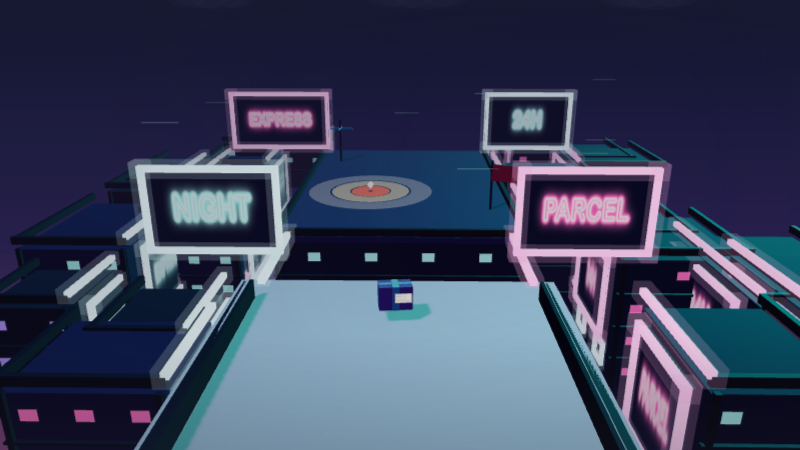
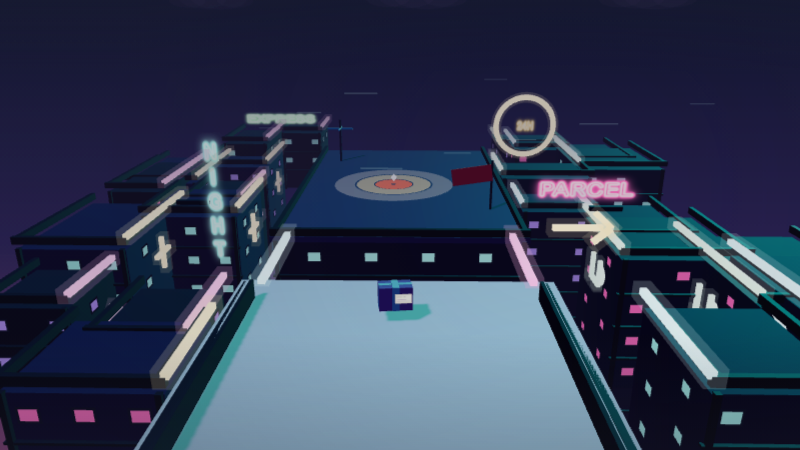
Replace neon billboards with tube signs

Changed region(s): [[0.0625, 0.1867, 1.0, 1.0], [0.4688, 0.6222, 0.5, 0.6533]]

diff --git a/crazygames/world.js b/crazygames/world.js
@@ -409,11 +409,11 @@ export function createWorld(container) {
     get sceneName() { return sceneName },
     get districtMetrics() {
       const spec = DISTRICTS[sceneName]
-      const neonCounts = { signs: 0, streetSigns: 0, heroSigns: 0, eaves: 0, streetTubes: 0 }
+      const neonCounts = { textSigns: 0, symbols: 0, boards: 0, eaves: 0, streetTubes: 0 }
       if (sceneName === 'neon') scenes.neon.traverse((child) => {
-        if (child.userData.neonBillboard) neonCounts.signs += 1
-        if (child.userData.neonBillboard === 'street-wall') neonCounts.streetSigns += 1
-        if (child.userData.neonBillboard === 'hero') neonCounts.heroSigns += 1
+        if (child.userData.neonText) neonCounts.textSigns += 1
+        if (child.userData.neonSymbol) neonCounts.symbols += 1
+        if (child.userData.neonBillboard) neonCounts.boards += 1
         if (child.userData.neonTubeRole === 'eave') neonCounts.eaves += 1
         if (child.userData.neonTubeRole === 'street') neonCounts.streetTubes += 1
       })
@@ -625,38 +625,15 @@ function addArchitectureDetails(group, kind, width, height, depth, options) {
       }
     }
   } else if (kind === 'neon') {
-    const neonColor = index % 2 ? 0xff4fa3 : 0x35f5e4
-    if (streetFace) {
-      const labels = ['NIGHT', 'PARCEL', 'EXPRESS', '24H']
-      const floorHeight = height / Math.max(2, Math.floor(height / 1.25))
-      const signHeight = Math.min(height * 0.66, floorHeight * 2.18)
-      const signWidth = depth * 0.68
-      addNeonBillboard(group, {
-        text: labels[index % labels.length],
-        width: signWidth,
-        height: signHeight,
-        color: neonColor,
-        position: [streetFace * (width / 2 + 0.17), top - signHeight / 2 - 0.38, 0],
-        axis: streetFace > 0 ? 'right' : 'left',
-        role: 'street-wall',
-      })
-    }
+    const neonColors = [0xff4fa3, 0x35f5e4, 0xffb84d, 0x5cff8d]
+    const neonColor = neonColors[index % neonColors.length]
     if (roofDecor) {
       if (streetFace) {
         const eave = addGlowTube(group, [0.2, 0.2, depth + 0.12], neonColor, [streetFace * (width / 2 + 0.08), top + 0.52, 0])
         eave.userData.neonTubeRole = 'eave'
       }
     }
-    if (streetFace) {
-      const opposite = index % 2 ? 0x35f5e4 : 0xff4fa3
-      const windowY = -top + Math.min(1.15, height * 0.2)
-      for (const z of [-depth * 0.26, depth * 0.26]) {
-        addGlowTube(group, [0.18, 0.82, 0.18], opposite, [streetFace * (width / 2 + 0.075), windowY, z - 0.48], 0.16)
-        addGlowTube(group, [0.18, 0.82, 0.18], opposite, [streetFace * (width / 2 + 0.075), windowY, z + 0.48], 0.16)
-        addGlowTube(group, [0.18, 0.18, 1.14], opposite, [streetFace * (width / 2 + 0.075), windowY + 0.41, z], 0.16)
-        addGlowTube(group, [0.18, 0.18, 1.14], opposite, [streetFace * (width / 2 + 0.075), windowY - 0.41, z], 0.16)
-      }
-    }
+    if (streetFace && ![0, 1, 20, 21].includes(index)) addNeonSymbol(group, ['arrow', 'circle', 'cross', 'cup'][index % 4], neonColor, streetFace, width, height, index)
   } else if (kind === 'glasshouse') {
     if (roofDecor) {
       const glass = sceneBox(group, [width * 0.64, 0.78, depth * 0.42], 0x9adcec, [0, top + 0.52, 0], { opacity: 0.38, castShadow: false })
@@ -684,34 +661,85 @@ function addArchitectureDetails(group, kind, width, height, depth, options) {
   }
 }
 
-function addNeonBillboard(group, { text, width, height, color, position, axis, role = 'hero' }) {
+function addNeonText(group, { text, width, height, color, position, axis = 'front', vertical = false }) {
   const isFront = axis === 'front'
-  const panelSize = isFront ? [width + 0.36, height + 0.36, 0.16] : [0.16, height + 0.36, width + 0.36]
-  const panel = sceneBox(group, panelSize, 0x080a1c, position, { emissive: 0x12152c, emissiveIntensity: 0.8, castShadow: false })
-  panel.userData.neonBillboard = role
-  panel.userData.neonBillboardSize = { width, height }
   const plane = new THREE.Mesh(
     new THREE.PlaneGeometry(width, height),
-    new THREE.MeshBasicMaterial({ map: makeNeonSignTexture(text, color), transparent: true, depthWrite: false }),
+    new THREE.MeshBasicMaterial({ map: makeNeonSignTexture(text, color, vertical), transparent: true, depthWrite: false, side: THREE.DoubleSide }),
   )
   plane.position.set(...position)
-  if (isFront) {
-    plane.position.z += 0.101
-  } else {
-    plane.position.x += axis === 'right' ? 0.101 : -0.101
-    plane.rotation.y = axis === 'right' ? Math.PI / 2 : -Math.PI / 2
-  }
+  if (!isFront) plane.rotation.y = axis === 'right' ? Math.PI / 2 : -Math.PI / 2
+  plane.userData.neonText = text
   group.add(plane)
+  return plane
+}
 
-  if (isFront) {
-    for (const y of [-height / 2 - 0.14, height / 2 + 0.14]) addGlowTube(group, [width + 0.46, 0.2, 0.2], color, [position[0], position[1] + y, position[2] + 0.13])
-    for (const x of [-width / 2 - 0.14, width / 2 + 0.14]) addGlowTube(group, [0.2, height + 0.46, 0.2], color, [position[0] + x, position[1], position[2] + 0.13])
-  } else {
-    const faceX = position[0] + (axis === 'right' ? 0.13 : -0.13)
-    for (const y of [-height / 2 - 0.14, height / 2 + 0.14]) addGlowTube(group, [0.2, 0.2, width + 0.46], color, [faceX, position[1] + y, position[2]])
-    for (const z of [-width / 2 - 0.14, width / 2 + 0.14]) addGlowTube(group, [0.2, height + 0.46, 0.2], color, [faceX, position[1], position[2] + z])
+function rotateGlowPair(group, rotationZ) {
+  const tube = group.children[group.children.length - 1]
+  const glow = group.children[group.children.length - 2]
+  tube.rotation.z = rotationZ
+  glow.rotation.z = rotationZ
+}
+
+function addNeonArrow(group, color, position, scale = 1) {
+  const arrow = new THREE.Group()
+  addGlowTube(arrow, [1.55 * scale, 0.18, 0.18], color, [-0.15 * scale, 0, 0], 0.18)
+  addGlowTube(arrow, [0.72 * scale, 0.18, 0.18], color, [0.62 * scale, 0.25 * scale, 0], 0.18)
+  rotateGlowPair(arrow, -0.72)
+  addGlowTube(arrow, [0.72 * scale, 0.18, 0.18], color, [0.62 * scale, -0.25 * scale, 0], 0.18)
+  rotateGlowPair(arrow, 0.72)
+  arrow.position.set(...position)
+  arrow.userData.neonSymbol = 'parcel-arrow'
+  group.add(arrow)
+}
+
+function addNeonRing(group, color, position, radius) {
+  const glow = new THREE.Mesh(
+    new THREE.TorusGeometry(radius, 0.26, 10, 40),
+    sceneMaterial(color, { emissive: color, emissiveIntensity: 2.2, opacity: 0.2 }),
+  )
+  glow.material.depthWrite = false
+  glow.position.set(...position)
+  group.add(glow)
+  const tube = new THREE.Mesh(new THREE.TorusGeometry(radius, 0.14, 10, 40), sceneMaterial(color, { emissive: color, emissiveIntensity: 5.2 }))
+  tube.position.set(...position)
+  tube.userData.neonSymbol = '24h-circle'
+  group.add(tube)
+}
+
+function addNeonSymbol(group, symbol, color, streetFace, width, height, index) {
+  const symbolGroup = new THREE.Group()
+  const faceX = streetFace * (width / 2 + 0.11)
+  const y = height / 2 - 1.2
+  const addPart = (size, offset, rotationX = 0) => {
+    const tube = addGlowTube(symbolGroup, size, color, offset, 0.17)
+    tube.rotation.x = rotationX
+    const glow = symbolGroup.children[symbolGroup.children.length - 2]
+    glow.rotation.x = rotationX
   }
-  panel.renderOrder = 1
+  if (symbol === 'arrow') {
+    addPart([0.18, 0.18, 1.5], [0, 0, 0])
+    addPart([0.18, 0.18, 0.72], [0, 0.25, 0.62], 0.72)
+    addPart([0.18, 0.18, 0.72], [0, -0.25, 0.62], -0.72)
+  } else if (symbol === 'circle') {
+    const torus = new THREE.Mesh(new THREE.TorusGeometry(0.62, 0.12, 8, 24), sceneMaterial(color, { emissive: color, emissiveIntensity: 4.8 }))
+    torus.rotation.y = Math.PI / 2
+    symbolGroup.add(torus)
+  } else if (symbol === 'cross') {
+    addPart([0.18, 1.35, 0.18], [0, 0, 0])
+    addPart([0.18, 0.18, 1.35], [0, 0, 0])
+  } else {
+    addPart([0.18, 1.05, 0.18], [0, 0, -0.48])
+    addPart([0.18, 1.05, 0.18], [0, 0, 0.48])
+    addPart([0.18, 0.18, 1.12], [0, -0.52, 0])
+    const handle = new THREE.Mesh(new THREE.TorusGeometry(0.32, 0.1, 8, 18, Math.PI), sceneMaterial(color, { emissive: color, emissiveIntensity: 4.8 }))
+    handle.rotation.set(0, Math.PI / 2, Math.PI / 2)
+    handle.position.set(0, -0.05, 0.62)
+    symbolGroup.add(handle)
+  }
+  symbolGroup.position.set(faceX, y - (index % 3) * 0.18, 0)
+  symbolGroup.userData.neonSymbol = symbol
+  group.add(symbolGroup)
 }
 
 function addGlowTube(group, size, color, position, glowOpacity = 0.22) {
@@ -749,16 +777,18 @@ function addDistrictEnvironment(group, kind) {
   }
 
   if (kind === 'neon') {
-    const heroSigns = [
-      { text: 'NIGHT', color: 0x35f5e4, position: [-5.75, 2.35, -1.0], bracketX: -6.55 },
-      { text: 'PARCEL', color: 0xff4fa3, position: [5.75, 2.35, -1.0], bracketX: 6.55 },
-      { text: 'EXPRESS', color: 0xff4fa3, position: [-6.15, 3.0, -13.7], bracketX: -7.15 },
-      { text: '24H', color: 0x35f5e4, position: [6.15, 3.0, -13.7], bracketX: 7.15 },
-    ]
-    heroSigns.forEach(({ text, color, position, bracketX }) => {
-      addNeonBillboard(group, { text, width: text === 'EXPRESS' ? 4.45 : 3.8, height: 2.35, color, position, axis: 'front', role: 'hero' })
-      sceneBox(group, [Math.abs(bracketX - position[0]) + 0.18, 0.18, 0.18], 0x232942, [(bracketX + position[0]) / 2, position[1], position[2] - 0.04], { metalness: 0.26, castShadow: false })
-    })
+    addNeonText(group, { text: 'NIGHT', width: 1.45, height: 4.4, color: 0x35f5e4, position: [-5.65, 2.55, -1.0], vertical: true })
+    sceneBox(group, [1.05, 0.14, 0.14], 0x232942, [-6.35, 2.55, -1.08], { metalness: 0.26, castShadow: false })
+
+    addNeonText(group, { text: 'PARCEL', width: 4.15, height: 1.42, color: 0xff4fa3, position: [5.72, 3.0, -1.0] })
+    addNeonArrow(group, 0xffb84d, [5.72, 1.82, -0.98], 1.0)
+    sceneBox(group, [1.0, 0.14, 0.14], 0x232942, [6.4, 2.42, -1.08], { metalness: 0.26, castShadow: false })
+
+    addNeonRing(group, 0xffb84d, [6.05, 2.75, -13.7], 1.42)
+    addNeonText(group, { text: '24H', width: 2.15, height: 1.18, color: 0xffb84d, position: [6.05, 2.75, -13.55] })
+
+    addNeonText(group, { text: 'EXPRESS', width: 4.6, height: 1.35, color: 0x5cff8d, position: [-5.8, 3.3, -12.1] })
+    sceneBox(group, [1.1, 0.12, 0.12], 0x232942, [-6.58, 3.3, -12.18], { metalness: 0.26, castShadow: false })
   }
 
   const street = new THREE.Mesh(
@@ -926,35 +956,44 @@ function makeLabelTexture(text = 'RD / 01', accent = '#f05d4e') {
   return texture
 }
 
-function makeNeonSignTexture(text = 'NIGHT', color = 0x35f5e4) {
+function makeNeonSignTexture(text = 'NIGHT', color = 0x35f5e4, vertical = false) {
   makeNeonSignTexture.cache ||= new Map()
-  const cacheKey = `${text}-${color}`
+  const cacheKey = `${text}-${color}-${vertical}`
   if (makeNeonSignTexture.cache.has(cacheKey)) return makeNeonSignTexture.cache.get(cacheKey)
   const canvas = document.createElement('canvas')
-  canvas.width = 768
-  canvas.height = 320
+  canvas.width = vertical ? 320 : 768
+  canvas.height = vertical ? 768 : 320
   const ctx = canvas.getContext('2d')
   ctx.clearRect(0, 0, canvas.width, canvas.height)
   ctx.textAlign = 'center'
   ctx.textBaseline = 'middle'
   ctx.lineCap = 'round'
   ctx.lineJoin = 'round'
-  const fontSize = text.length >= 7 ? 116 : text.length >= 6 ? 132 : 150
+  const fontSize = vertical ? 112 : text.length >= 7 ? 116 : text.length >= 6 ? 132 : 150
   ctx.font = `900 ${fontSize}px Arial Rounded MT Bold, Arial Black, Arial, sans-serif`
   const tubeColor = `#${color.toString(16).padStart(6, '0')}`
-  const coreColor = color === 0xff4fa3 ? '#ffd0e8' : '#c5fff9'
-  ctx.shadowColor = tubeColor
-  ctx.shadowBlur = 54
-  ctx.strokeStyle = tubeColor
-  ctx.lineWidth = 28
-  ctx.strokeText(text, 384, 160)
-  ctx.shadowBlur = 22
-  ctx.lineWidth = 18
-  ctx.strokeText(text, 384, 160)
-  ctx.shadowBlur = 0
-  ctx.strokeStyle = coreColor
-  ctx.lineWidth = 7
-  ctx.strokeText(text, 384, 160)
+  const coreColor = color === 0xff4fa3 ? '#ffd0e8' : color === 0xffb84d ? '#fff0b8' : color === 0x5cff8d ? '#d0ffdc' : '#c5fff9'
+  const drawTubeText = (value, x, y) => {
+    const compactGlow = text === 'EXPRESS'
+    ctx.shadowColor = tubeColor
+    ctx.shadowBlur = compactGlow ? 26 : 54
+    ctx.strokeStyle = tubeColor
+    ctx.lineWidth = compactGlow ? 22 : 28
+    ctx.strokeText(value, x, y)
+    ctx.shadowBlur = compactGlow ? 10 : 22
+    ctx.lineWidth = compactGlow ? 13 : 18
+    ctx.strokeText(value, x, y)
+    ctx.shadowBlur = 0
+    ctx.strokeStyle = coreColor
+    ctx.lineWidth = compactGlow ? 6 : 7
+    ctx.strokeText(value, x, y)
+  }
+  if (vertical) {
+    const step = canvas.height / (text.length + 0.6)
+    ;[...text].forEach((letter, index) => drawTubeText(letter, canvas.width / 2, step * (index + 0.8)))
+  } else {
+    drawTubeText(text, canvas.width / 2, canvas.height / 2)
+  }
   const texture = new THREE.CanvasTexture(canvas)
   texture.colorSpace = THREE.SRGBColorSpace
   makeNeonSignTexture.cache.set(cacheKey, texture)

diff --git a/doc/crazygames-review.md b/doc/crazygames-review.md
@@ -1,9 +1,9 @@
-# Rooftop Delivery — Crazy Games 第六轮 Neon 审图修正
+# Rooftop Delivery — Crazy Games 第七轮 Neon 审图修正
 
 ## 本轮范围
 
 - 分支：`cursor/crazygames-guest-7e22`
-- 起点：`3890998`
+- 起点：`eba8caf`
 - 只修改 Crazy Games 隔离代码、QA 与文档；没有修改宿主运行代码，没有重写抛掷结算。
 - 10 条固定路线、七步教学、八项升级与夜间合约全部保留；没有新增路线、广告、内购或账号。
 
@@ -20,7 +20,7 @@
 | depot | warehouse | 两侧临街装卸门/雨棚与屋顶货箱 |
 | laundry | residential | 两侧住宅顶层窗与屋沿之间的彩色晾衣 |
 | garden | courtyard | 两侧楼顶花箱、矮树与临街窗台绿植 |
-| neon | sign-tower | 22 块朝街墙牌、同帧完整可读的 `NIGHT / PARCEL / EXPRESS / 24H` 四块悬挑主牌、厚灯管边框与通长檐口/跨街灯管 |
+| neon | sign-tower | 四组无底板灯管字、四类彩色符号灯、通长檐口与跨街灯管 |
 | glasshouse | glassworks | 两侧屋顶成排透明玻璃棚和框架 |
 | beacon | harbor | 侧后方楼顶灯塔、扫光与沿街暖灯 |
 
@@ -30,12 +30,12 @@
 
 上一轮集中在收件屋顶的箱堆/装卸牌、整排晾衣、四组花箱、`NIGHT POST` 主牌、整座玻璃棚和灯塔已全部移除。收件屋顶现在只保留落点圈、玩法动物、风旗，以及一个水箱或天线；Route 8/10 的两个落点均无遮挡。主题氛围由左右 22 栋街楼与后方楼群承担。
 
-## Neon 灯牌与灯管
+## Neon 灯管字与符号
 
-- 22 栋侧街楼逐栋生成朝街墙牌，宽度为墙宽 68%，高度为 2.18 层；另有四块由支架连到侧楼的悬挑主牌，确保 `NIGHT / PARCEL / EXPRESS / 24H` 在 800×450 同帧完整可读。
-- 文字纹理改为彩色圆角三层 `strokeText`，只有灯管轮廓和亮芯，没有白色填字。
-- 每块牌由暗色实体底板、0.20 厚的四边 emissive 内管，以及外扩 0.30 的半透明亮边组成。
-- 22 栋朝街檐口各使用一根覆盖完整墙宽的通长灯管；街谷左右各一根 4.45 长的灯管直接连接玩家屋顶与落点屋顶，窗框灯管同样不再使用 0.075 细条。
+- 所有暗色底板、方牌、矩形亮框和逐楼复制的文字广告牌已删除；文字纹理使用透明底与三层彩色 `strokeText`，字母本身就是灯管。
+- 文字只保留四组不同形状：左楼竖排青色 `NIGHT`，右楼粉色 `PARCEL` 并接琥珀色朝街箭头，后方楼为琥珀色圆环中的 `24H`，另一后方楼为挂在立面的较小绿色 `EXPRESS`。四组在 800×450 同帧完整可读。
+- 其余 18 栋楼不再放字，改用箭头、圆圈、十字和杯子轮廓，混合粉、青、琥珀、绿四种灯色；连同 `PARCEL` 箭头和 `24H` 圆环共 20 组符号灯。
+- 22 栋朝街檐口各保留一根覆盖完整墙宽的通长灯管；街谷左右各一根 4.45 长的灯管直接连接玩家屋顶与落点屋顶。
 - 收件屋顶未增加招牌或灯管，仍只保留垫圈、旗子和一件小型天线。
 
 ## 既有特殊规则保持
@@ -58,7 +58,7 @@
 - 六景共享已恢复的连续街道骨架；六个建筑族与建筑主色均唯一，差异来自可见结构而非移动楼距或只换色。
 - 六张无 HUD 截图中，主题物件分布在左右/后方楼体，收件屋顶没有大型主题陈列；垫圈与旗帜保持清楚。
 - neon 专项 Chromium 截图为 800×450，无溢出、裁切、页面异常或控制台错误；固定 `gap=4 / streetWidth=8 / skylineCount=22` 未变。
-- 真实场景树计数：`streetSigns=22`、`heroSigns=4`、`eaves=22`、`streetTubes=2`；四块主牌文字在最终静帧中均完整。
+- 真实场景树计数：`textSigns=4`、`symbols=20`、`boards=0`、`eaves=22`、`streetTubes=2`；四组文字在最终静帧中均完整。
 - Route 6 / 9 / 10：翻转完成后权威风、HUD 箭头和旗帜方向逐关一致。
 - Route 7 普通垫圈：`misses=1`、`delivered=0`；结果浮字与箱体不重叠，顶面裂纹可见。
 
@@ -80,6 +80,6 @@
 - P1 “31e9daf 把街道拆成空地上的孤立方块”已通过恢复 `fa376ab` 固定空间与隐藏 HUD 的六张复拍关闭。
 - P1 “楼体只是白点方块/同模型换色”已通过楼层、窗框、女儿墙和六类专属建筑结构关闭。
 - P1 “主题装饰都堆在落点屋顶”已通过侧街附着规则与六张无 HUD 复拍关闭。
-- P1 “neon 细方条、小字被裁、灯牌像白字贴片”已通过逐楼大牌、四块悬挑主牌、管状描边字、0.20 内管/外层光晕和通长檐口/跨街灯管专项复拍关闭。
+- P1 “neon 方牌过多、底板/矩形框重复、文字不像灯管”已通过删除全部 billboard、只保留四组透明管状描边字、以四类多色符号灯替代其余广告牌，并保留通长檐口/跨街灯管的专项复拍关闭。
 - P1 “翻风静帧方向未提交”和“裂箱浮字遮挡”已用最终静帧与浏览器断言关闭。
 - `comprehension unverified`：本轮只改视觉辨识与反馈证据，仍没有全新真人复述玩法三问合同的证据。

diff --git a/doc/technical.md b/doc/technical.md
@@ -83,6 +83,7 @@ Three.js 场景由 `makeBuilding()`、`addBackgroundCity()`、`addRoofDetails()`
 - 第四轮审图把主题设施从 `createLevelScene()` 的收件屋顶陈列移入 `addArchitectureDetails()` 的 22 栋侧街建筑。`streetFace` 决定装卸门、晾衣、窗台花箱和霓虹字牌朝向街谷，`roofDecor` 明确禁止发件楼与收件楼生成花园、灯带或玻璃棚；侧楼仍可生成货箱、花箱、玻璃棚和港区灯，beacon 的灯塔固定在后方侧楼。霓虹 `OPEN / POST / ROOF` 字牌共享缓存的运行时 CanvasTexture。收件屋顶仅保留既有风旗与一个水箱或天线，动物和双落点仍由玩法层生成。
 - 第五轮只补 neon：`addNeonBillboard()` 为前向/侧向楼面广告牌生成暗底、CanvasTexture 发光大字和四根独立 emissive BoxGeometry 边管；侧楼另生成屋沿管、临街窗框管和底层沿街管，`addDistrictEnvironment()` 在固定街宽内追加两排街面灯管。后方 index 0/1 的广告牌抬到屋顶线上方，其余广告牌留在左右高层立面。`_qa/crazygames-neon-review.mjs` 只启动 Route 6、隐藏 HUD、断言固定街道骨架/800×450 无溢出/无控制台错误并覆盖单张 neon 证据，不重拍其他五景。
 - 第六轮继续只补 neon：每栋侧街楼都按 `depth × 0.68`、`floorHeight × 2.18` 在 `streetFace` 生成墙牌；四块主牌通过支架附着近处左右和后方侧楼并面向相机，保证 `NIGHT / PARCEL / EXPRESS / 24H` 同帧完整。`makeNeonSignTexture()` 改为三层彩色 `strokeText` 管状笔画，不再 `fillText` 白字。`addGlowTube()` 统一生成 0.18–0.22 实体 emissive 内管及外扩 0.30 的半透明光晕，供 0.20 招牌边框、22 根通长檐口管、窗框和两根跨街管复用。专项 QA 从真实场景树断言 `streetSigns=22 / heroSigns=4 / eaves=22 / streetTubes=2`。
+- 第七轮只替换 neon 的招牌层：删除 `addNeonBillboard()` 及所有暗底板、矩形边框和逐楼文字牌；`addNeonText()` 只生成透明 CanvasTexture 上的三层灯管描边。四组文字分别是竖排 `NIGHT`、带独立几何箭头的 `PARCEL`、置于 Torus 灯管圆环内的 `24H`，以及用横向支架挂在后楼立面的较小 `EXPRESS`。其余 18 栋楼由 `addNeonSymbol()` 轮换箭头、圆圈、十字和杯子几何，并混用粉、青、琥珀、绿；22 根檐口灯管与两根跨街灯管保持不变。专项 QA 从真实场景树断言 `textSigns=4 / symbols=20 / boards=0 / eaves=22 / streetTubes=2`。
 - 风旗几何以旗杆为缩放原点，`scale.x` 的正负直接表示当前可见风向；HUD 箭头同样以 `scaleX(±1)` 表示方向。QA 在 180ms 翻转提交后分别检查路线 6、9、10 的权威风、HUD 箭头和旗帜方向相同。易碎箱改用正面与顶面的厚 Plane 裂纹，结果浮字使用独立 `is-fragile` 位置避免遮挡箱体。
 - `_qa/crazygames-rules.mjs` 检查路线数量/规则标记、夜间六景循环、副落点分类、坠街可见时段和 10 条路线的规划落点；`_qa/crazygames-review.mjs` 在真实 Chromium 中检查 800×450 无裁切、六类建筑身份唯一、六景均保持 `gap=4 / streetWidth=8 / skylineCount=22` 的固定街道骨架、易碎失误、翻风视觉先行/单次限制、双落点与控制台错误，并生成最终截图。
 - `?playtest=1` 仅为本地 QA 暴露 `window.__cg` 状态与展示钩子；普通游客入口不创建该对象。

diff --git a/doc/requirements.md b/doc/requirements.md
@@ -97,6 +97,6 @@
 - **场景轮换**：`depot`、`laundry`、`garden`、`neon`、`glasshouse`、`beacon` 六种程序化屋顶必须拥有不同楼高/轮廓、可读窗户、水箱或天线，以及对应专属物件。夜间合约只轮换这六种已装扮场景，不创建第七座城市，也不新增固定路线。
 - **街道空间合同**：恢复并锁定 `fa376ab` 的相机和街道骨架：玩家站在近处屋顶，落点屋顶在固定宽度的街对面，左右各 11 栋楼连续组成街墙。六景不得改变前后屋顶距离、把落点楼推远或让建筑悬在空地上；场景身份来自楼层、窗户、女儿墙和不同建筑类型，而非移动街道骨架或只换颜色。800×450 隐藏 HUD 后仍能靠仓库/住宅/庭院/招牌楼/玻璃棚/灯塔辨认场景。
 - **装饰分布合同**：场景专属物件必须铺到左右街楼和后方建筑：depot 的装卸门/货箱、laundry 的临街晾衣、garden 的楼顶/窗台花箱、neon 的楼面文字招牌、glasshouse 的侧楼玻璃棚、beacon 的侧后方灯塔与屋顶灯。落点屋顶只保留垫圈、风旗、玩法动物以及至多一个水箱或天线，不得再作为主题展示台；第 8/10 关两个落点必须同时完整可读。
-- **neon 灯管合同**：22 栋侧街楼每栋朝街墙面至少有一块招牌，宽度为墙宽至少 60%（实现为 68%），高度至少两层楼（实现为 2.18 层）。`NIGHT / PARCEL / EXPRESS / 24H` 四块悬挑主牌必须在 800×450 同时完整可读。文字只画彩色圆角灯管描边，不使用白色填字；招牌四边实体灯管至少 0.18 厚（实现为 0.20），外套更大的半透明 emissive 光晕。22 栋楼的朝街檐口各是一整根通长灯管，街道左右各一根通长灯管跨过玩家屋顶与落点屋顶之间的街谷。所有灯牌和灯管均禁止回到落点屋顶。
+- **neon 灯管合同**：文字招牌只保留四组且不使用底板、方牌或矩形亮框：左楼为竖排 `NIGHT`，右楼为 `PARCEL` 并在下方接朝街箭头，后方一栋为圆形灯管包围 `24H`，另一栋为挂在楼面的较小 `EXPRESS`。字母只由彩色圆角灯管描边组成，后方保持透明。其余楼不再放文字，改用粉、青、琥珀、绿四种颜色的箭头、圆圈、十字和杯子轮廓分散铺陈。22 栋楼的朝街檐口各保留一整根通长灯管，街道左右各一根通长灯管跨过玩家屋顶与落点屋顶之间的街谷。所有文字、符号和灯管均禁止回到落点屋顶。
 - **包裹反馈**：所有皮肤保留纸箱体、横纵十字胶带和可读标签。落在屋顶后先压扁再回弹，同时弹出本次小费；滑出楼沿后持续翻滚坠向街道，不能瞬间隐藏。`prefers-reduced-motion` 下缩短压扁/回弹幅度，但裂纹、结果文字与小费仍清楚可见。
 - **验证实验**：分别回放第 7 关中心/垫边、第 6/9/10 关每件仅一次翻风且视觉先行、第 8/10 关主副落点。通过信号是三类落点分类稳定、翻风不重复、权威弹道仍可规划；停止信号是任一路线无解、目标重叠或提示遮挡操作区。

diff --git a/doc/visual.md b/doc/visual.md
@@ -23,7 +23,7 @@
 - 公共天空与邮政 UI 延续暮紫 `#5B5E8B`、纸白 `#FFF5DE`、珊瑚 `#F05D4E`、风青 `#0F7F78`、提示金 `#F2C14E`。
 - 六场景使用独立强调色：depot 铁锈橙、laundry 天蓝、garden 叶绿、neon 青紫、glasshouse 冷蓝、beacon 金黄深海军。
 - 六景同时切换天空渐变、雾色、半球光、主光、轮廓光、街道与窗光；禁止让公共紫灰背景重新覆盖场景身份。neon 使用深靛天空、青/粉窗光和成组可读的大字灯牌；beacon 保持最深天空，只让窗灯与灯塔成为高亮。
-- neon 的文字系统只轮换 `NIGHT / PARCEL / EXPRESS / 24H` 四组管状描边字。22 栋楼每栋朝街墙面都有宽 68%、高 2.18 层的侧牌；另在近处左右与后方侧楼各设一块面向相机、由支架连接墙体的主牌，四个词在同一张 800×450 中完整可读。边框内管截面为 0.20，外层光晕再扩张 0.30 且半透明。每栋朝街檐口使用一根覆盖完整墙宽的通长灯管，街谷左右各一根通长灯管连接两个屋顶；禁止断成短条或退化为纯色面片。
+- neon 不使用暗色底板、方牌或矩形亮框。文字只保留四组不同构图的管状描边字：左楼竖排 `NIGHT`、右楼 `PARCEL` 加向街箭头、后楼圆形灯管中的 `24H`、另一后楼挂墙的小号 `EXPRESS`；四组在同一张 800×450 中完整可读。其余墙面仅分散使用粉、青、琥珀、绿的箭头、圆圈、十字和杯子灯管轮廓，避免复制广告牌。每栋朝街檐口仍使用一根覆盖完整墙宽的通长灯管，街谷左右各一根通长灯管连接两个屋顶；落点屋顶不承载招牌或符号灯。
 - bullseye 用珊瑚色；副投递圈用纸白/风青并带不同中心标记，不能只靠颜色区分。
 
 ## 4. Typography
